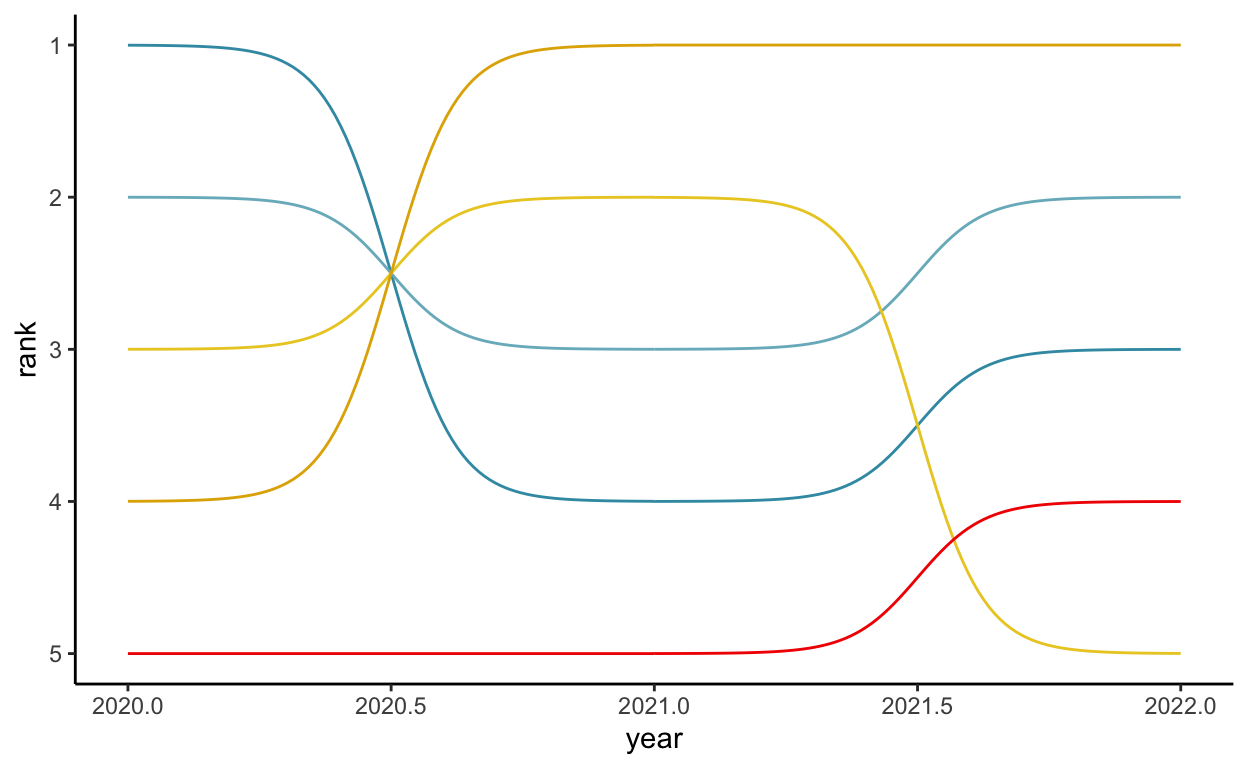
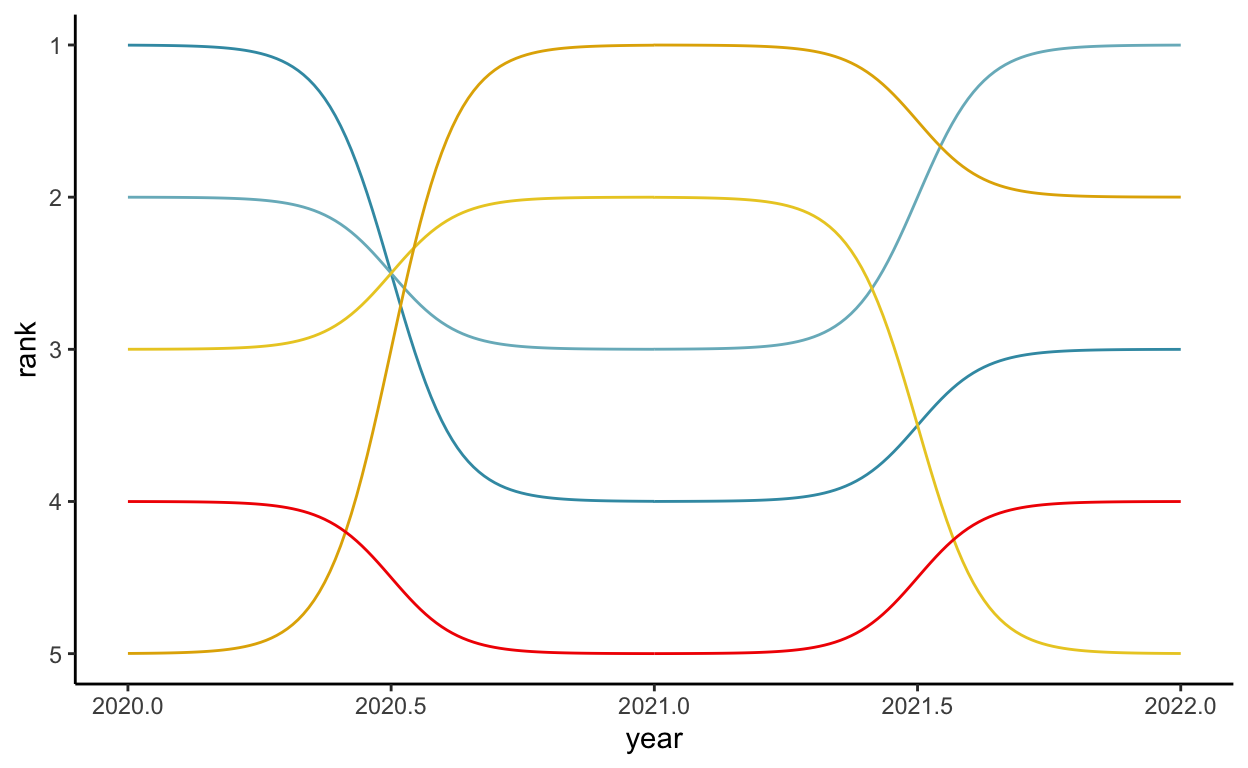
commit

diff --git a/docs/posts/ggbump_package/index.html b/docs/posts/ggbump_package/index.html
@@ -94,8 +94,8 @@ code span.wa { color: #5e5e5e; font-style: italic; } /* Warning */
 <link rel="canonical" href="https://chic-head.com/posts/ggbump_package/"/>
 
 <!--  https://schema.org/Article -->
-<meta property="article:published" itemprop="datePublished" content="2022-02-13"/>
-<meta property="article:created" itemprop="dateCreated" content="2022-02-13"/>
+<meta property="article:published" itemprop="datePublished" content="2022-02-20"/>
+<meta property="article:created" itemprop="dateCreated" content="2022-02-20"/>
 <meta name="article:author" content="chichead"/>
 
 <!--  https://developers.facebook.com/docs/sharing/webmasters#markup -->
@@ -103,32 +103,26 @@ code span.wa { color: #5e5e5e; font-style: italic; } /* Warning */
 <meta property="og:type" content="article"/>
 <meta property="og:description" content="R아두면 쓸데있는 패키지 이야기 : bump chart를 그리고 싶을 땐"/>
 <meta property="og:url" content="https://chic-head.com/posts/ggbump_package/"/>
-<meta property="og:image" content="https://chic-head.com/posts/ggbump_package/ggbump_files/figure-html5/unnamed-chunk-1-1.png"/>
-<meta property="og:image:width" content="1248"/>
-<meta property="og:image:height" content="768"/>
 <meta property="og:locale" content="en_US"/>
 <meta property="og:site_name" content="Chic Hen Run"/>
 
 <!--  https://dev.twitter.com/cards/types/summary -->
-<meta property="twitter:card" content="summary_large_image"/>
+<meta property="twitter:card" content="summary"/>
 <meta property="twitter:title" content="Chic Hen Run: ggbump package"/>
 <meta property="twitter:description" content="R아두면 쓸데있는 패키지 이야기 : bump chart를 그리고 싶을 땐"/>
 <meta property="twitter:url" content="https://chic-head.com/posts/ggbump_package/"/>
-<meta property="twitter:image" content="https://chic-head.com/posts/ggbump_package/ggbump_files/figure-html5/unnamed-chunk-1-1.png"/>
-<meta property="twitter:image:width" content="1248"/>
-<meta property="twitter:image:height" content="768"/>
 
 <!--  https://scholar.google.com/intl/en/scholar/inclusion.html#indexing -->
 <meta name="citation_title" content="Chic Hen Run: ggbump package"/>
 <meta name="citation_fulltext_html_url" content="https://chic-head.com/posts/ggbump_package/"/>
-<meta name="citation_online_date" content="2022/02/13"/>
-<meta name="citation_publication_date" content="2022/02/13"/>
+<meta name="citation_online_date" content="2022/02/20"/>
+<meta name="citation_publication_date" content="2022/02/20"/>
 <meta name="citation_author" content="chichead"/>
 <!--/radix_placeholder_meta_tags-->
   <!--radix_placeholder_rmarkdown_metadata-->
 
 <script type="text/json" id="radix-rmarkdown-metadata">
-{"type":"list","attributes":{"names":{"type":"character","attributes":{},"value":["title","description","author","categories","date","output","citation_url","canonical_url"]}},"value":[{"type":"character","attributes":{},"value":["ggbump package"]},{"type":"character","attributes":{},"value":["R아두면 쓸데있는 패키지 이야기 : bump chart를 그리고 싶을 땐"]},{"type":"list","attributes":{},"value":[{"type":"list","attributes":{"names":{"type":"character","attributes":{},"value":["name"]}},"value":[{"type":"character","attributes":{},"value":["chichead"]}]}]},{"type":"character","attributes":{},"value":["R_package"]},{"type":"character","attributes":{},"value":["2022-02-13"]},{"type":"list","attributes":{"names":{"type":"character","attributes":{},"value":["distill::distill_article"]}},"value":[{"type":"list","attributes":{"names":{"type":"character","attributes":{},"value":["self_contained","toc","toc_depth"]}},"value":[{"type":"logical","attributes":{},"value":[false]},{"type":"logical","attributes":{},"value":[true]},{"type":"integer","attributes":{},"value":[3]}]}]},{"type":"character","attributes":{},"value":["https://chic-head.com/posts/ggbump_package/"]},{"type":"character","attributes":{},"value":["https://chic-head.com/posts/ggbump_package/"]}]}
+{"type":"list","attributes":{"names":{"type":"character","attributes":{},"value":["title","description","author","categories","preview","date","output","citation_url","canonical_url"]}},"value":[{"type":"character","attributes":{},"value":["ggbump package"]},{"type":"character","attributes":{},"value":["R아두면 쓸데있는 패키지 이야기 : bump chart를 그리고 싶을 땐"]},{"type":"list","attributes":{},"value":[{"type":"list","attributes":{"names":{"type":"character","attributes":{},"value":["name"]}},"value":[{"type":"character","attributes":{},"value":["chichead"]}]}]},{"type":"character","attributes":{},"value":["R_package"]},{"type":"character","attributes":{},"value":["https://raw.githubusercontent.com/chichead/chichead.github.io/master/_posts/ggbump_package/zissou.gif"]},{"type":"character","attributes":{},"value":["2022-02-20"]},{"type":"list","attributes":{"names":{"type":"character","attributes":{},"value":["distill::distill_article"]}},"value":[{"type":"list","attributes":{"names":{"type":"character","attributes":{},"value":["self_contained","toc","toc_depth"]}},"value":[{"type":"logical","attributes":{},"value":[false]},{"type":"logical","attributes":{},"value":[true]},{"type":"integer","attributes":{},"value":[3]}]}]},{"type":"character","attributes":{},"value":["https://chic-head.com/posts/ggbump_package/"]},{"type":"character","attributes":{},"value":["https://chic-head.com/posts/ggbump_package/"]}]}
 </script>
 <!--/radix_placeholder_rmarkdown_metadata-->
   
@@ -2451,7 +2445,7 @@ gtag('config', 'G-YZCBLF5F53');
 <!--radix_placeholder_front_matter-->
 
 <script id="distill-front-matter" type="text/json">
-{"title":"ggbump package","description":"R아두면 쓸데있는 패키지 이야기 : bump chart를 그리고 싶을 땐","authors":[{"author":"chichead","authorURL":"#","affiliation":"&nbsp;","affiliationURL":"#","orcidID":""}],"publishedDate":"2022-02-13T00:00:00.000+09:00","citationText":"chichead, 2022"}
+{"title":"ggbump package","description":"R아두면 쓸데있는 패키지 이야기 : bump chart를 그리고 싶을 땐","authors":[{"author":"chichead","authorURL":"#","affiliation":"&nbsp;","affiliationURL":"#","orcidID":""}],"publishedDate":"2022-02-20T00:00:00.000+09:00","citationText":"chichead, 2022"}
 </script>
 
 <!--/radix_placeholder_front_matter-->
@@ -2486,7 +2480,7 @@ gtag('config', 'G-YZCBLF5F53');
 <div class="d-byline">
   chichead  
   
-<br/>2022-02-13
+<br/>2022-02-20
 </div>
 
 <div class="d-article">
@@ -2510,11 +2504,11 @@ gtag('config', 'G-YZCBLF5F53');
 </div>
 <h2 id="ggbump-package">ggbump package</h2>
 <h3 id="ggbumps-name">ggbump’s name</h3>
-<p>ggplot2는 grammar of graphics(a.k.a. gg)을 토대로 시각화를 만드는 패키지입니다. 2는 ver.2의 의미를 담았죠. gg는 릴랜드 윌킨스의 동명의 책 The Grammar of Graphics에서 따온건데, 이 책에서 릴랜드는 데이터를 어떻게 시각적으로 표현할 것인지에 대해 다룹니다. gg에 대한 이야기는 나중에 따로 하기로 하고…</p>
-<p>ggplot2 패키지의 문법 기반 위에서 돌아가는 서브 패키지들은 보통 gg라는 접두사로 시작됩니다. ggbump역시 ggplot2의 일원이라고 이해할 수 있어요. 그렇다면 bump는 무엇을 의미하는 걸까요? 자동차의 범퍼, 혹은 놀이동산의 범퍼카를 떠올리면 bump의 의미를 유추할 수 있어요. bump는 바로, 충돌을 의미합니다. 충돌과 차트, 어떤 연관이 있는걸까요?</p>
+<p>ggplot2는 grammar of graphics(a.k.a. gg)을 토대로 시각화를 만드는 패키지입니다. 2는 ver.2의 의미를 담았죠. gg는 릴랜드 윌킨스의 동명의 책 The Grammar of Graphics에서 따온 건데, 이 책에서 릴랜드는 데이터를 어떻게 시각적으로 표현할 것인지에 대해 다룹니다. gg에 대한 이야기는 나중에 따로 하기로 하고…</p>
+<p>ggplot2 패키지의 문법 기반 위에서 돌아가는 서브 패키지들은 보통 gg라는 접두사로 시작됩니다. ggbump 역시 ggplot2의 일원이라고 이해할 수 있어요. 그렇다면 bump는 무엇을 의미하는 걸까요? 자동차의 범퍼, 혹은 놀이동산의 범퍼카를 떠올리면 bump의 의미를 유추할 수 있어요. bump는 바로, 충돌을 의미합니다. 충돌과 차트, 어떤 연관이 있는 걸까요?</p>
 <h3 id="bump-chart">bump chart</h3>
-<p>영국의 케임브리지 대학에는 The bump라고 불리는 조정 경기가 있습니다. 케임브리지를 가로지르는 캠 강(river Cam) 은 나란히 경주하기에는 너무 좁아서 한 줄로 경주하는 독특한 조정 경주를 진행해왔어요. 19세기 초 부터 시작된 이 경기 이름이 바로 The bump입니다. The bump의 경주 방식은 이렇습니다. 우선 강을 따라 한 줄로 경기를 시작합니다. 각 선수들은 전속력으로 노를 저어 앞에 있는 보트를 따라잡고 충돌(bump)하죠. 그렇게 되면 앞에 있는 조정 팀을 추월한 것으로 인정, 순위가 올라가게 됩니다. 주최측에서는 경기의 진행 상황을 매핑하는 차트를 그려서 제공했는데, 이 차트를 bump chart라고 불렀습니다.</p>
-<p>아래 차트는 2020년 사순절에 치뤄진 대회(Lent Bump)의 남자부 경기 결과입니다. 어떤 차트인지 감이 오죠?</p>
+<p>영국의 케임브리지 대학에는 The bump라고 불리는 조정 경기가 있습니다. 케임브리지를 가로지르는 캠 강(river Cam) 은 나란히 경주하기에는 너무 좁아서 한 줄로 경주하는 독특한 조정 경주를 진행해왔어요. 19세기 초부터 시작된 이 경기 이름이 바로 The bump입니다. The bump의 경주 방식은 이렇습니다. 우선 강을 따라 한 줄로 경기를 시작합니다. 각 선수들은 전속력으로 노를 저어 앞에 있는 보트를 따라잡고 충돌(bump)하죠. 그렇게 되면 앞에 있는 조정 팀을 추월한 것으로 인정, 순위가 올라가게 됩니다. 주최 측에서는 경기의 진행 상황을 매핑하는 차트를 그려서 제공했는데, 이 차트를 bump chart라고 불렀습니다.</p>
+<p>아래 차트는 2020년 사순절에 치러진 대회(Lent Bump)의 남자부 경기 결과입니다. 어떤 차트인지 감이 오죠?</p>
 <p><img src="bumpchart_thebump.png" style="width:50.0%" /></p>
 <p><br/></p>
 <h3 id="ggbumps-logo">ggbump’s logo</h3>
@@ -2591,9 +2585,9 @@ gtag('config', 'G-YZCBLF5F53');
 <pre><code># A tibble: 6 × 4
   country  year value  rank
   &lt;chr&gt;   &lt;dbl&gt; &lt;dbl&gt; &lt;int&gt;
-1 Korea    2020   500     4
+1 Korea    2020   500     5
 2 Korea    2021   200     1
-3 Korea    2022   100     1
+3 Korea    2022   100     2
 4 Japan    2020   400     3
 5 Japan    2021   300     2
 6 Japan    2022   400     5</code></pre>
@@ -2645,7 +2639,7 @@ gtag('config', 'G-YZCBLF5F53');
 <div class="appendix-bottom">
   <h3 id="citation">Citation</h3>
   <p>For attribution, please cite this work as</p>
-  <pre class="citation-appendix short">chichead (2022, Feb. 13). Chic Hen Run: ggbump package. Retrieved from https://chic-head.com/posts/ggbump_package/</pre>
+  <pre class="citation-appendix short">chichead (2022, Feb. 20). Chic Hen Run: ggbump package. Retrieved from https://chic-head.com/posts/ggbump_package/</pre>
   <p>BibTeX citation</p>
   <pre class="citation-appendix long">@misc{chichead2022ggbump,
   author = {chichead, },

diff --git a/_posts/ggbump_package/ggbump.html b/_posts/ggbump_package/ggbump.html
@@ -93,8 +93,8 @@ code span.wa { color: #5e5e5e; font-style: italic; } /* Warning */
 
 
   <!--  https://schema.org/Article -->
-  <meta property="article:published" itemprop="datePublished" content="2022-02-13"/>
-  <meta property="article:created" itemprop="dateCreated" content="2022-02-13"/>
+  <meta property="article:published" itemprop="datePublished" content="2022-02-20"/>
+  <meta property="article:created" itemprop="dateCreated" content="2022-02-20"/>
   <meta name="article:author" content="chichead"/>
 
   <!--  https://developers.facebook.com/docs/sharing/webmasters#markup -->
@@ -112,7 +112,7 @@ code span.wa { color: #5e5e5e; font-style: italic; } /* Warning */
   <!--radix_placeholder_rmarkdown_metadata-->
 
   <script type="text/json" id="radix-rmarkdown-metadata">
-  {"type":"list","attributes":{"names":{"type":"character","attributes":{},"value":["title","description","author","categories","date","output"]}},"value":[{"type":"character","attributes":{},"value":["ggbump package"]},{"type":"character","attributes":{},"value":["R아두면 쓸데있는 패키지 이야기 : bump chart를 그리고 싶을 땐\n"]},{"type":"list","attributes":{},"value":[{"type":"list","attributes":{"names":{"type":"character","attributes":{},"value":["name"]}},"value":[{"type":"character","attributes":{},"value":["chichead"]}]}]},{"type":"character","attributes":{},"value":["R_package"]},{"type":"character","attributes":{},"value":["2022-02-13"]},{"type":"list","attributes":{"names":{"type":"character","attributes":{},"value":["distill::distill_article"]}},"value":[{"type":"list","attributes":{"names":{"type":"character","attributes":{},"value":["self_contained","toc","toc_depth"]}},"value":[{"type":"logical","attributes":{},"value":[false]},{"type":"logical","attributes":{},"value":[true]},{"type":"integer","attributes":{},"value":[3]}]}]}]}
+  {"type":"list","attributes":{"names":{"type":"character","attributes":{},"value":["title","description","author","categories","preview","date","output"]}},"value":[{"type":"character","attributes":{},"value":["ggbump package"]},{"type":"character","attributes":{},"value":["R아두면 쓸데있는 패키지 이야기 : bump chart를 그리고 싶을 땐\n"]},{"type":"list","attributes":{},"value":[{"type":"list","attributes":{"names":{"type":"character","attributes":{},"value":["name"]}},"value":[{"type":"character","attributes":{},"value":["chichead"]}]}]},{"type":"character","attributes":{},"value":["R_package"]},{"type":"character","attributes":{},"value":["https://raw.githubusercontent.com/chichead/chichead.github.io/master/_posts/ggbump_package/zissou.gif"]},{"type":"character","attributes":{},"value":["2022-02-20"]},{"type":"list","attributes":{"names":{"type":"character","attributes":{},"value":["distill::distill_article"]}},"value":[{"type":"list","attributes":{"names":{"type":"character","attributes":{},"value":["self_contained","toc","toc_depth"]}},"value":[{"type":"logical","attributes":{},"value":[false]},{"type":"logical","attributes":{},"value":[true]},{"type":"integer","attributes":{},"value":[3]}]}]}]}
   </script>
   <!--/radix_placeholder_rmarkdown_metadata-->
   
@@ -1459,7 +1459,7 @@ code span.wa { color: #5e5e5e; font-style: italic; } /* Warning */
 <!--radix_placeholder_front_matter-->
 
 <script id="distill-front-matter" type="text/json">
-{"title":"ggbump package","description":"R아두면 쓸데있는 패키지 이야기 : bump chart를 그리고 싶을 땐","authors":[{"author":"chichead","authorURL":"#","affiliation":"&nbsp;","affiliationURL":"#","orcidID":""}],"publishedDate":"2022-02-13T00:00:00.000+09:00","citationText":"chichead, 2022"}
+{"title":"ggbump package","description":"R아두면 쓸데있는 패키지 이야기 : bump chart를 그리고 싶을 땐","authors":[{"author":"chichead","authorURL":"#","affiliation":"&nbsp;","affiliationURL":"#","orcidID":""}],"publishedDate":"2022-02-20T00:00:00.000+09:00","citationText":"chichead, 2022"}
 </script>
 
 <!--/radix_placeholder_front_matter-->
@@ -1481,7 +1481,7 @@ code span.wa { color: #5e5e5e; font-style: italic; } /* Warning */
 <div class="d-byline">
   chichead  
   
-<br/>2022-02-13
+<br/>2022-02-20
 </div>
 
 <div class="d-article">
@@ -1505,11 +1505,11 @@ code span.wa { color: #5e5e5e; font-style: italic; } /* Warning */
 </div>
 <h2 id="ggbump-package">ggbump package</h2>
 <h3 id="ggbumps-name">ggbump’s name</h3>
-<p>ggplot2는 grammar of graphics(a.k.a. gg)을 토대로 시각화를 만드는 패키지입니다. 2는 ver.2의 의미를 담았죠. gg는 릴랜드 윌킨스의 동명의 책 The Grammar of Graphics에서 따온건데, 이 책에서 릴랜드는 데이터를 어떻게 시각적으로 표현할 것인지에 대해 다룹니다. gg에 대한 이야기는 나중에 따로 하기로 하고…</p>
-<p>ggplot2 패키지의 문법 기반 위에서 돌아가는 서브 패키지들은 보통 gg라는 접두사로 시작됩니다. ggbump역시 ggplot2의 일원이라고 이해할 수 있어요. 그렇다면 bump는 무엇을 의미하는 걸까요? 자동차의 범퍼, 혹은 놀이동산의 범퍼카를 떠올리면 bump의 의미를 유추할 수 있어요. bump는 바로, 충돌을 의미합니다. 충돌과 차트, 어떤 연관이 있는걸까요?</p>
+<p>ggplot2는 grammar of graphics(a.k.a. gg)을 토대로 시각화를 만드는 패키지입니다. 2는 ver.2의 의미를 담았죠. gg는 릴랜드 윌킨스의 동명의 책 The Grammar of Graphics에서 따온 건데, 이 책에서 릴랜드는 데이터를 어떻게 시각적으로 표현할 것인지에 대해 다룹니다. gg에 대한 이야기는 나중에 따로 하기로 하고…</p>
+<p>ggplot2 패키지의 문법 기반 위에서 돌아가는 서브 패키지들은 보통 gg라는 접두사로 시작됩니다. ggbump 역시 ggplot2의 일원이라고 이해할 수 있어요. 그렇다면 bump는 무엇을 의미하는 걸까요? 자동차의 범퍼, 혹은 놀이동산의 범퍼카를 떠올리면 bump의 의미를 유추할 수 있어요. bump는 바로, 충돌을 의미합니다. 충돌과 차트, 어떤 연관이 있는 걸까요?</p>
 <h3 id="bump-chart">bump chart</h3>
-<p>영국의 케임브리지 대학에는 The bump라고 불리는 조정 경기가 있습니다. 케임브리지를 가로지르는 캠 강(river Cam) 은 나란히 경주하기에는 너무 좁아서 한 줄로 경주하는 독특한 조정 경주를 진행해왔어요. 19세기 초 부터 시작된 이 경기 이름이 바로 The bump입니다. The bump의 경주 방식은 이렇습니다. 우선 강을 따라 한 줄로 경기를 시작합니다. 각 선수들은 전속력으로 노를 저어 앞에 있는 보트를 따라잡고 충돌(bump)하죠. 그렇게 되면 앞에 있는 조정 팀을 추월한 것으로 인정, 순위가 올라가게 됩니다. 주최측에서는 경기의 진행 상황을 매핑하는 차트를 그려서 제공했는데, 이 차트를 bump chart라고 불렀습니다.</p>
-<p>아래 차트는 2020년 사순절에 치뤄진 대회(Lent Bump)의 남자부 경기 결과입니다. 어떤 차트인지 감이 오죠?</p>
+<p>영국의 케임브리지 대학에는 The bump라고 불리는 조정 경기가 있습니다. 케임브리지를 가로지르는 캠 강(river Cam) 은 나란히 경주하기에는 너무 좁아서 한 줄로 경주하는 독특한 조정 경주를 진행해왔어요. 19세기 초부터 시작된 이 경기 이름이 바로 The bump입니다. The bump의 경주 방식은 이렇습니다. 우선 강을 따라 한 줄로 경기를 시작합니다. 각 선수들은 전속력으로 노를 저어 앞에 있는 보트를 따라잡고 충돌(bump)하죠. 그렇게 되면 앞에 있는 조정 팀을 추월한 것으로 인정, 순위가 올라가게 됩니다. 주최 측에서는 경기의 진행 상황을 매핑하는 차트를 그려서 제공했는데, 이 차트를 bump chart라고 불렀습니다.</p>
+<p>아래 차트는 2020년 사순절에 치러진 대회(Lent Bump)의 남자부 경기 결과입니다. 어떤 차트인지 감이 오죠?</p>
 <p><img src="bumpchart_thebump.png" style="width:50.0%" /></p>
 <p><br/></p>
 <h3 id="ggbumps-logo">ggbump’s logo</h3>
@@ -1586,9 +1586,9 @@ code span.wa { color: #5e5e5e; font-style: italic; } /* Warning */
 <pre><code># A tibble: 6 × 4
   country  year value  rank
   &lt;chr&gt;   &lt;dbl&gt; &lt;dbl&gt; &lt;int&gt;
-1 Korea    2020   500     4
+1 Korea    2020   500     5
 2 Korea    2021   200     1
-3 Korea    2022   100     1
+3 Korea    2022   100     2
 4 Japan    2020   400     3
 5 Japan    2021   300     2
 6 Japan    2022   400     5</code></pre>

diff --git a/docs/posts/tibble_package/index.html b/docs/posts/tibble_package/index.html
@@ -122,12 +122,12 @@ code span.wa { color: #5e5e5e; font-style: italic; } /* Warning */
   <!--radix_placeholder_rmarkdown_metadata-->
 
 <script type="text/json" id="radix-rmarkdown-metadata">
-{"type":"list","attributes":{"names":{"type":"character","attributes":{},"value":["title","description","author","categories","date","output","citation_url","canonical_url"]}},"value":[{"type":"character","attributes":{},"value":["tibble package"]},{"type":"character","attributes":{},"value":["R아두면 쓸데있는 패키지 이야기 : 데이터 테이블의 진화"]},{"type":"list","attributes":{},"value":[{"type":"list","attributes":{"names":{"type":"character","attributes":{},"value":["name"]}},"value":[{"type":"character","attributes":{},"value":["chichead"]}]}]},{"type":"character","attributes":{},"value":["R_package"]},{"type":"character","attributes":{},"value":["05-02-2021"]},{"type":"list","attributes":{"names":{"type":"character","attributes":{},"value":["distill::distill_article"]}},"value":[{"type":"list","attributes":{"names":{"type":"character","attributes":{},"value":["self_contained","toc","toc_depth"]}},"value":[{"type":"logical","attributes":{},"value":[false]},{"type":"logical","attributes":{},"value":[true]},{"type":"integer","attributes":{},"value":[3]}]}]},{"type":"character","attributes":{},"value":["https://chic-head.com/posts/tibble_package/"]},{"type":"character","attributes":{},"value":["https://chic-head.com/posts/tibble_package/"]}]}
+{"type":"list","attributes":{"names":{"type":"character","attributes":{},"value":["title","description","author","categories","date","preview","output","citation_url","canonical_url"]}},"value":[{"type":"character","attributes":{},"value":["tibble package"]},{"type":"character","attributes":{},"value":["R아두면 쓸데있는 패키지 이야기 : 데이터 테이블의 진화"]},{"type":"list","attributes":{},"value":[{"type":"list","attributes":{"names":{"type":"character","attributes":{},"value":["name"]}},"value":[{"type":"character","attributes":{},"value":["chichead"]}]}]},{"type":"character","attributes":{},"value":["R_package"]},{"type":"character","attributes":{},"value":["2021-05-02"]},{"type":"character","attributes":{},"value":["https://i.gifer.com/PFYe.gif"]},{"type":"list","attributes":{"names":{"type":"character","attributes":{},"value":["distill::distill_article"]}},"value":[{"type":"list","attributes":{"names":{"type":"character","attributes":{},"value":["self_contained","toc","toc_depth"]}},"value":[{"type":"logical","attributes":{},"value":[false]},{"type":"logical","attributes":{},"value":[true]},{"type":"integer","attributes":{},"value":[3]}]}]},{"type":"character","attributes":{},"value":["https://chic-head.com/posts/tibble_package/"]},{"type":"character","attributes":{},"value":["https://chic-head.com/posts/tibble_package/"]}]}
 </script>
 <!--/radix_placeholder_rmarkdown_metadata-->
   
   <script type="text/json" id="radix-resource-manifest">
-  {"type":"character","attributes":{},"value":["tibble_logo.png","tibble_package_files/anchor-4.2.2/anchor.min.js","tibble_package_files/bowser-1.9.3/bowser.min.js","tibble_package_files/distill-2.2.21/template.v2.js","tibble_package_files/header-attrs-2.11/header-attrs.js","tibble_package_files/header-attrs-2.7/header-attrs.js","tibble_package_files/jquery-1.11.3/jquery.min.js","tibble_package_files/jquery-3.6.0/jquery-3.6.0.js","tibble_package_files/jquery-3.6.0/jquery-3.6.0.min.js","tibble_package_files/jquery-3.6.0/jquery-3.6.0.min.map","tibble_package_files/popper-2.6.0/popper.min.js","tibble_package_files/tippy-6.2.7/tippy-bundle.umd.min.js","tibble_package_files/tippy-6.2.7/tippy-light-border.css","tibble_package_files/tippy-6.2.7/tippy.css","tibble_package_files/tippy-6.2.7/tippy.umd.min.js","tibble_package_files/webcomponents-2.0.0/webcomponents.js","tribble.gif"]}
+  {"type":"character","attributes":{},"value":["box.gif","tibble_logo.png","tibble_package_files/anchor-4.2.2/anchor.min.js","tibble_package_files/bowser-1.9.3/bowser.min.js","tibble_package_files/distill-2.2.21/template.v2.js","tibble_package_files/header-attrs-2.11/header-attrs.js","tibble_package_files/header-attrs-2.7/header-attrs.js","tibble_package_files/jquery-1.11.3/jquery.min.js","tibble_package_files/jquery-3.6.0/jquery-3.6.0.js","tibble_package_files/jquery-3.6.0/jquery-3.6.0.min.js","tibble_package_files/jquery-3.6.0/jquery-3.6.0.min.map","tibble_package_files/popper-2.6.0/popper.min.js","tibble_package_files/tippy-6.2.7/tippy-bundle.umd.min.js","tibble_package_files/tippy-6.2.7/tippy-light-border.css","tibble_package_files/tippy-6.2.7/tippy.css","tibble_package_files/tippy-6.2.7/tippy.umd.min.js","tibble_package_files/webcomponents-2.0.0/webcomponents.js","tribble.gif"]}
   </script>
   <!--radix_placeholder_navigation_in_header-->
 <meta name="distill:offset" content="../.."/>
@@ -2480,7 +2480,7 @@ gtag('config', 'G-YZCBLF5F53');
 <div class="d-byline">
   chichead  
   
-<br/>05-02-2021
+<br/>2021-05-02
 </div>
 
 <div class="d-article">
@@ -2584,7 +2584,7 @@ gtag('config', 'G-YZCBLF5F53');
 <p><br/></p>
 <h3 id="tribble">tribble</h3>
 <p><img src="tribble.gif" style="width:40.0%" /></p>
-<p>tibble을 만들 수 있는 또다른 방법은 함수 tribble을 사용하는겁니다요. 스타 트렉의 커크 함장에게 눈처럼 내리는 동물이 바로 트리블이랍니다. 트리블은 복실복실한 털과 귀여운 목소리 탓에 애완용으로 많이 키워졌는데 다만 한가지 주의해야할 부분은 바로 번식이랍니다. 한 번 번식을 시작하면 끝도 없이 증식해버려서 자칫하면 손을 쓸 수 없을지도 몰라요.</p>
+<p>tibble을 만들 수 있는 또다른 방법은 함수 tribble을 사용하는겁니다. 스타 트렉의 커크 함장에게 눈처럼 내리는 동물이 바로 트리블이랍니다. 트리블은 복실복실한 털과 귀여운 목소리 탓에 애완용으로 많이 키워졌는데 다만 한가지 주의해야할 부분은 바로 번식이랍니다. 한 번 번식을 시작하면 끝도 없이 증식해버려서 자칫하면 손을 쓸 수 없을지도 몰라요.</p>
 <p>tibble 패키지에 있는 tribble은 <strong>tr</strong>ansposed t<strong>ibble</strong>의 줄임말입니다. 단어 그대로 전치된 티블이라는 뜻이지요. 기존의 tibble 입력 형식이 colname = data 같은 가로형이었다면 tribble에서는 세로형으로 입력할 수 있지요. 간단하게 적은 양의 데이터를 코드로 입력할 때에는 tribble을 쓰면 편리합니다.</p>
 <div class="sourceCode" id="cb11"><pre class="sourceCode r"><code class="sourceCode r"><span id="cb11-1"><a href="#cb11-1" aria-hidden="true" tabindex="-1"></a><span class="co"># tribble 함수에서 칼럼명은 ~로 시작해주셔야해요</span></span>
 <span id="cb11-2"><a href="#cb11-2" aria-hidden="true" tabindex="-1"></a><span class="co"># 데이터 구분은 ,로 해주시고요</span></span>

diff --git a/_posts/tibble_package/tibble_package.html b/_posts/tibble_package/tibble_package.html
@@ -112,12 +112,12 @@ code span.wa { color: #5e5e5e; font-style: italic; } /* Warning */
   <!--radix_placeholder_rmarkdown_metadata-->
 
   <script type="text/json" id="radix-rmarkdown-metadata">
-  {"type":"list","attributes":{"names":{"type":"character","attributes":{},"value":["title","description","author","categories","date","output"]}},"value":[{"type":"character","attributes":{},"value":["tibble package"]},{"type":"character","attributes":{},"value":["R아두면 쓸데있는 패키지 이야기 : 데이터 테이블의 진화\n"]},{"type":"list","attributes":{},"value":[{"type":"list","attributes":{"names":{"type":"character","attributes":{},"value":["name"]}},"value":[{"type":"character","attributes":{},"value":["chichead"]}]}]},{"type":"character","attributes":{},"value":["R_package"]},{"type":"character","attributes":{},"value":["05-02-2021"]},{"type":"list","attributes":{"names":{"type":"character","attributes":{},"value":["distill::distill_article"]}},"value":[{"type":"list","attributes":{"names":{"type":"character","attributes":{},"value":["self_contained","toc","toc_depth"]}},"value":[{"type":"logical","attributes":{},"value":[false]},{"type":"logical","attributes":{},"value":[true]},{"type":"integer","attributes":{},"value":[3]}]}]}]}
+  {"type":"list","attributes":{"names":{"type":"character","attributes":{},"value":["title","description","author","categories","date","preview","output"]}},"value":[{"type":"character","attributes":{},"value":["tibble package"]},{"type":"character","attributes":{},"value":["R아두면 쓸데있는 패키지 이야기 : 데이터 테이블의 진화\n"]},{"type":"list","attributes":{},"value":[{"type":"list","attributes":{"names":{"type":"character","attributes":{},"value":["name"]}},"value":[{"type":"character","attributes":{},"value":["chichead"]}]}]},{"type":"character","attributes":{},"value":["R_package"]},{"type":"character","attributes":{},"value":["2021-05-02"]},{"type":"character","attributes":{},"value":["https://i.gifer.com/PFYe.gif"]},{"type":"list","attributes":{"names":{"type":"character","attributes":{},"value":["distill::distill_article"]}},"value":[{"type":"list","attributes":{"names":{"type":"character","attributes":{},"value":["self_contained","toc","toc_depth"]}},"value":[{"type":"logical","attributes":{},"value":[false]},{"type":"logical","attributes":{},"value":[true]},{"type":"integer","attributes":{},"value":[3]}]}]}]}
   </script>
   <!--/radix_placeholder_rmarkdown_metadata-->
   
   <script type="text/json" id="radix-resource-manifest">
-  {"type":"character","attributes":{},"value":["tibble_logo.png","tibble_package_files/anchor-4.2.2/anchor.min.js","tibble_package_files/bowser-1.9.3/bowser.min.js","tibble_package_files/distill-2.2.21/template.v2.js","tibble_package_files/header-attrs-2.11/header-attrs.js","tibble_package_files/header-attrs-2.7/header-attrs.js","tibble_package_files/jquery-1.11.3/jquery.min.js","tibble_package_files/jquery-3.6.0/jquery-3.6.0.js","tibble_package_files/jquery-3.6.0/jquery-3.6.0.min.js","tibble_package_files/jquery-3.6.0/jquery-3.6.0.min.map","tibble_package_files/popper-2.6.0/popper.min.js","tibble_package_files/tippy-6.2.7/tippy-bundle.umd.min.js","tibble_package_files/tippy-6.2.7/tippy-light-border.css","tibble_package_files/tippy-6.2.7/tippy.css","tibble_package_files/tippy-6.2.7/tippy.umd.min.js","tibble_package_files/webcomponents-2.0.0/webcomponents.js","tribble.gif"]}
+  {"type":"character","attributes":{},"value":["box.gif","tibble_logo.png","tibble_package_files/anchor-4.2.2/anchor.min.js","tibble_package_files/bowser-1.9.3/bowser.min.js","tibble_package_files/distill-2.2.21/template.v2.js","tibble_package_files/header-attrs-2.11/header-attrs.js","tibble_package_files/header-attrs-2.7/header-attrs.js","tibble_package_files/jquery-1.11.3/jquery.min.js","tibble_package_files/jquery-3.6.0/jquery-3.6.0.js","tibble_package_files/jquery-3.6.0/jquery-3.6.0.min.js","tibble_package_files/jquery-3.6.0/jquery-3.6.0.min.map","tibble_package_files/popper-2.6.0/popper.min.js","tibble_package_files/tippy-6.2.7/tippy-bundle.umd.min.js","tibble_package_files/tippy-6.2.7/tippy-light-border.css","tibble_package_files/tippy-6.2.7/tippy.css","tibble_package_files/tippy-6.2.7/tippy.umd.min.js","tibble_package_files/webcomponents-2.0.0/webcomponents.js","tribble.gif"]}
   </script>
   <!--radix_placeholder_navigation_in_header-->
   <!--/radix_placeholder_navigation_in_header-->
@@ -1481,7 +1481,7 @@ code span.wa { color: #5e5e5e; font-style: italic; } /* Warning */
 <div class="d-byline">
   chichead  
   
-<br/>05-02-2021
+<br/>2021-05-02
 </div>
 
 <div class="d-article">
@@ -1585,7 +1585,7 @@ code span.wa { color: #5e5e5e; font-style: italic; } /* Warning */
 <p><br/></p>
 <h3 id="tribble">tribble</h3>
 <p><img src="tribble.gif" style="width:40.0%" /></p>
-<p>tibble을 만들 수 있는 또다른 방법은 함수 tribble을 사용하는겁니다요. 스타 트렉의 커크 함장에게 눈처럼 내리는 동물이 바로 트리블이랍니다. 트리블은 복실복실한 털과 귀여운 목소리 탓에 애완용으로 많이 키워졌는데 다만 한가지 주의해야할 부분은 바로 번식이랍니다. 한 번 번식을 시작하면 끝도 없이 증식해버려서 자칫하면 손을 쓸 수 없을지도 몰라요.</p>
+<p>tibble을 만들 수 있는 또다른 방법은 함수 tribble을 사용하는겁니다. 스타 트렉의 커크 함장에게 눈처럼 내리는 동물이 바로 트리블이랍니다. 트리블은 복실복실한 털과 귀여운 목소리 탓에 애완용으로 많이 키워졌는데 다만 한가지 주의해야할 부분은 바로 번식이랍니다. 한 번 번식을 시작하면 끝도 없이 증식해버려서 자칫하면 손을 쓸 수 없을지도 몰라요.</p>
 <p>tibble 패키지에 있는 tribble은 <strong>tr</strong>ansposed t<strong>ibble</strong>의 줄임말입니다. 단어 그대로 전치된 티블이라는 뜻이지요. 기존의 tibble 입력 형식이 colname = data 같은 가로형이었다면 tribble에서는 세로형으로 입력할 수 있지요. 간단하게 적은 양의 데이터를 코드로 입력할 때에는 tribble을 쓰면 편리합니다.</p>
 <div class="sourceCode" id="cb11"><pre class="sourceCode r"><code class="sourceCode r"><span id="cb11-1"><a href="#cb11-1" aria-hidden="true" tabindex="-1"></a><span class="co"># tribble 함수에서 칼럼명은 ~로 시작해주셔야해요</span></span>
 <span id="cb11-2"><a href="#cb11-2" aria-hidden="true" tabindex="-1"></a><span class="co"># 데이터 구분은 ,로 해주시고요</span></span>

diff --git a/docs/index.html b/docs/index.html
@@ -2585,10 +2585,10 @@ function init_posts_list() {
 <a href="posts/ggbump_package/" class="post-preview">
 <script class="post-metadata" type="text/json">{"categories":["R_package"]}</script>
 <div class="metadata">
-<div class="publishedDate">Feb. 12, 2022</div>
+<div class="publishedDate">Feb. 20, 2022</div>
 </div>
 <div class="thumbnail">
-<img src="posts/ggbump_package/ggbump_files/figure-html5/unnamed-chunk-1-1.png"/>
+<img src="https://raw.githubusercontent.com/chichead/chichead.github.io/master/_posts/ggbump_package/zissou.gif"/>
 </div>
 <div class="description">
 <h2>ggbump package</h2>
@@ -2601,10 +2601,10 @@ function init_posts_list() {
 <a href="posts/tibble_package/" class="post-preview">
 <script class="post-metadata" type="text/json">{"categories":["R_package"]}</script>
 <div class="metadata">
-<div class="publishedDate">May 2, 2021</div>
+<div class="publishedDate">May 1, 2021</div>
 </div>
 <div class="thumbnail">
-<img/>
+<img src="https://i.gifer.com/PFYe.gif"/>
 </div>
 <div class="description">
 <h2>tibble package</h2>
